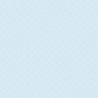
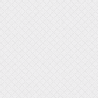
Change the main background and fonts. Fix header inline elements and padding.

diff --git a/web/less/frontend/_menu.less b/web/less/frontend/_menu.less
@@ -15,33 +15,30 @@
 .navbar-inner {
 	padding-left:  0px;
 	padding-right: 20px;
-	background: rgb(21,95,134); /* Old browsers */
+	background: rgb(19,89,127); /* Old browsers */
 /* IE9 SVG, needs conditional override of 'filter' to 'none' */
[1 lines of base64/hex data omitted]
-	background: -moz-linear-gradient(top,  rgba(21,95,134,1) 0%, rgba(16,72,101,1) 94%, rgba(7,43,68,1) 100%); /* FF3.6+ */
-	background: -webkit-gradient(linear, left top, left bottom, color-stop(0%,rgba(21,95,134,1)), color-stop(94%,rgba(16,72,101,1)), color-stop(100%,rgba(7,43,68,1))); /* Chrome,Safari4+ */
-	background: -webkit-linear-gradient(top,  rgba(21,95,134,1) 0%,rgba(16,72,101,1) 94%,rgba(7,43,68,1) 100%); /* Chrome10+,Safari5.1+ */
-	background: -o-linear-gradient(top,  rgba(21,95,134,1) 0%,rgba(16,72,101,1) 94%,rgba(7,43,68,1) 100%); /* Opera 11.10+ */
-	background: -ms-linear-gradient(top,  rgba(21,95,134,1) 0%,rgba(16,72,101,1) 94%,rgba(7,43,68,1) 100%); /* IE10+ */
-	background: linear-gradient(top,  rgba(21,95,134,1) 0%,rgba(16,72,101,1) 94%,rgba(7,43,68,1) 100%); /* W3C */
-	filter: progid:DXImageTransform.Microsoft.gradient( startColorstr='#155f86', endColorstr='#072b44',GradientType=0 ); /* IE6-8 */
+	background: -moz-linear-gradient(top,  rgba(19,89,127,1) 0%, rgba(14,67,96,1) 94%, rgba(7,43,68,1) 100%); /* FF3.6+ */
+	background: -webkit-gradient(linear, left top, left bottom, color-stop(0%,rgba(19,89,127,1)), color-stop(94%,rgba(14,67,96,1)), color-stop(100%,rgba(7,43,68,1))); /* Chrome,Safari4+ */
+	background: -webkit-linear-gradient(top,  rgba(19,89,127,1) 0%,rgba(14,67,96,1) 94%,rgba(7,43,68,1) 100%); /* Chrome10+,Safari5.1+ */
+	background: -o-linear-gradient(top,  rgba(19,89,127,1) 0%,rgba(14,67,96,1) 94%,rgba(7,43,68,1) 100%); /* Opera 11.10+ */
+	background: -ms-linear-gradient(top,  rgba(19,89,127,1) 0%,rgba(14,67,96,1) 94%,rgba(7,43,68,1) 100%); /* IE10+ */
+	background: linear-gradient(top,  rgba(19,89,127,1) 0%,rgba(14,67,96,1) 94%,rgba(7,43,68,1) 100%); /* W3C */
+	filter: progid:DXImageTransform.Microsoft.gradient( startColorstr='#13597f', endColorstr='#0e4360',GradientType=0 ); /* IE6-8 */
 	-webkit-border-radius: 0;
 	-moz-border-radius: 0;
 	border-radius: 0;
 	-webkit-box-shadow: none;
 	-moz-box-shadow: none;
 	box-shadow: none;
+	min-height: 44px;
 }
 .navbar .container {
 	-webkit-box-shadow: none;
 	-moz-box-shadow: none;
 	box-shadow: none;
 }
-.navbar-inner {
-	-webkit-border-radius: 0;
-	-moz-border-radius: 0;
-	border-radius: 0;
-}
+
 
 .navbar .nav > li {
 	font: 18px Arial;
@@ -51,7 +48,7 @@
 
 // Links
 .navbar .nav > li > a {
-	padding: 10px 19px 11px;
+	padding: 13px 19px 12px;
 	line-height: 19px;
 	color: @navbarLinkColor;
 	text-shadow: -1px -1px 1px rgba(42, 44, 42, 1);

diff --git a/web/less/frontend/main.less b/web/less/frontend/main.less
@@ -71,7 +71,7 @@ body {
 	margin-right: -210px;
 }
 .container-fluid, .container {
-	.box-shadow(0 35px 30px rgba(50, 50, 50, 0.5));
+	.box-shadow(0 25px 20px rgba(136, 119, 119, 0.5));
 	padding-left: 15px;
 }
 .container-fluid.without-column, .container.without-column {
@@ -80,6 +80,7 @@ body {
 
 #content {
 	background-color: @white;
+	padding-top: 20px;
 }
 
 footer {
@@ -195,9 +196,7 @@ footer .form-horizontal .controls {
 // FOOTER
 footer {
 	color: @blueDark;
-	-webkit-box-shadow: 0 35px 30px rgba(50, 50, 50, 0.5);
-	-moz-box-shadow:    0 35px 30px rgba(50, 50, 50, 0.5);
-	box-shadow:         0 35px 30px rgba(50, 50, 50, 0.5);
+	.box-shadow(0 25px 20px rgba(136, 119, 119, 0.5));
 	position: relative;
 }
 footer p {
@@ -208,7 +207,8 @@ footer h2 {
 	font-size: 20px;
 	line-height: 20px;
 	padding-bottom: 6px;
-	font-family: 'Fugaz One', cursive;
+	font-family: 'Chivo', cursive;
+	font-style: italic;
 	color: @blueDark;
 	margin-bottom: 10px;
 }
@@ -357,7 +357,7 @@ ul.footer-profile-box li p {
 #slot1 {
 	margin: 0 auto;
 	background-color: @white;
-	.box-shadow(0 35px 30px rgba(50, 50, 50, 0.5));
+	.box-shadow(0 25px 20px rgba(136, 119, 119, 0.5));
 	.clearfix();
 }
 .slot1-inner {
@@ -618,6 +618,8 @@ li.roundabout-in-focus .carousel-in-focus-title-container {
 	bottom: -5px;
 	top: auto;
 }
+
+
 
 
 //GRID, media queries

diff --git a/web/less/frontend/_header.less b/web/less/frontend/_header.less
@@ -19,7 +19,7 @@ header > .container {
 .cq-logo {
 	position: absolute;
 	left: 15px;
-	top: -40px;
+	top: -38px;
 	z-index: 1001;
 }
 
@@ -68,4 +68,12 @@ a.link_cart{
 
 .padding-signup {
 	padding-left: 16px;
+}
+
+.input-prepend, .input-append {
+	margin-bottom: 0;
+}
+
+header .search-header form, header .form-inline.pull-right {
+	margin-bottom: 15px;
 }

diff --git a/web/less/frontend/_spites.less b/web/less/frontend/_spites.less
@@ -71,6 +71,7 @@
 .sing-up-now-red{
 	background-position: -50px -110px ;
 	.size(37px, 120px);
+	margin-top: -4px;
 }
 
 .sing-up-now-red:hover{

diff --git a/apps/frontend/templates/_footer.php b/apps/frontend/templates/_footer.php
@@ -3,7 +3,7 @@
     <div class="row-fluid">
       <div class="span4">
         <div class="aboutus-footer-inner">
-          <h2 class="FugazOne">About Collectors’ Quest</h2>
+          <h2 class="Chivo">About Collectors’ Quest</h2>
           <p>
             Collectors’ Quest is an interactive community and marketplace for the passionate collector. Collectors can meet others who share their interests, organize and catalog their collections, as well as buy, sell or trade with others...
             <a href="#">Learn more</a>
@@ -21,7 +21,7 @@
         <?php if (!$sf_user->isAuthenticated()): ?>
 
         <div id="footer-form-signup">
-          <h2 class="FugazOne">Sign Up</h2>
+          <h2 class="Chivo">Sign Up</h2>
 
           <form action="<?= url_for('@collector_signup'); ?>" class="form-horizontal form-footer">
             <?= $signup_form->renderUsing('BootstrapWithRowFluid'); ?>
@@ -43,15 +43,15 @@
         </div><!-- #footer-form-signup -->
 
         <div id="footer-form-login" style="display: none">
-          <h2 class="FugazOne">Log In</h2>
+          <h2 class="Chivo">Log In</h2>
           <form action="<?= url_for('@login'); ?>" class="form-horizontal form-footer">
             <?= $login_form->renderUsing('BootstrapWithRowFluid') ?>
             <div class="row-fluid row-spacing">
-              <div class="span9 top-padding-10">
+              <div class="span8 top-padding-10">
                 <?php include_partial('global/footer_signup_external_buttons'); ?>
               </div>
-              <div class="span3">
-                <button type="submit" class="btn btn-primary blue pull-right">Log In</button>
+              <div class="span4">
+                <button type="submit" class="btn btn-primary blue pull-right">Log&nbsp;In</button>
               </div>
             </div>
             <div class="row-fluid">
@@ -69,7 +69,7 @@
         </div> <!-- #footer-form-login -->
 
         <?php else: ?>
-        <h2 class="FugazOne">Welcome back, <?= $sf_user->getCollector()->getDisplayName() ?>!</h2>
+        <h2 class="Chivo">Welcome back, <?= $sf_user->getCollector()->getDisplayName() ?>!</h2>
         <ul class="footer-profile-box">
           <li class="icon_big_email">
               <p>You have in <a href="#" class="bold-links">your inbox</a></p>
@@ -104,21 +104,21 @@
           <li>
             <i class="icon_big_box"></i>
             <div class="info-box-text">
-              <h2 class="FugazOne">Show Off</h2>
+              <h2 class="Chivo">Show Off</h2>
               <p>Share your passion with a world of interested people by organizing your collections with our easy to use tools.</p>
             </div>
           </li>
           <li>
             <i class="icon_big_piggy_bank"></i>
             <div class="info-box-text">
-              <h2 class="FugazOne">Get Paid</h2>
+              <h2 class="Chivo">Get Paid</h2>
               <p>It’s easy to sell an item once you’re a member. Just choose “I’m a seller” during the sign up process.</p>
             </div>
           </li>
           <li>
             <i class="icon_big_question"></i>
             <div class="info-box-text">
-              <h2 class="FugazOne">Help/FAQ</h2>
+              <h2 class="Chivo">Help/FAQ</h2>
               <p>Want to know how to get more out of your membership? <a href="#">Watch</a> our helpful videos today!</p>
             </div>
           </li>

diff --git a/apps/frontend/templates/_header.php b/apps/frontend/templates/_header.php
@@ -6,7 +6,7 @@
           &nbsp;
         </div>
         <div class="span5">
-          <div class="input-append search-header">
+          <div class="input-append search-header pull-right">
             <form action="<?= url_for('@search') ?>" method="get">
               <?= $form['q']->render(array('value' => $sf_params->get('q'), 'autocomplete' => 'off')); ?>
               <button class="btn btn-large" type="submit">Search</button>
